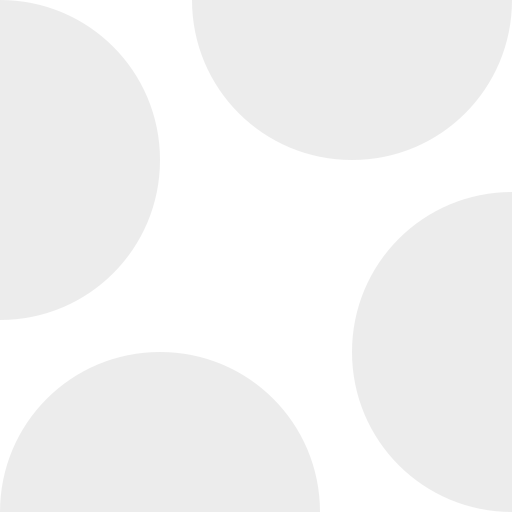
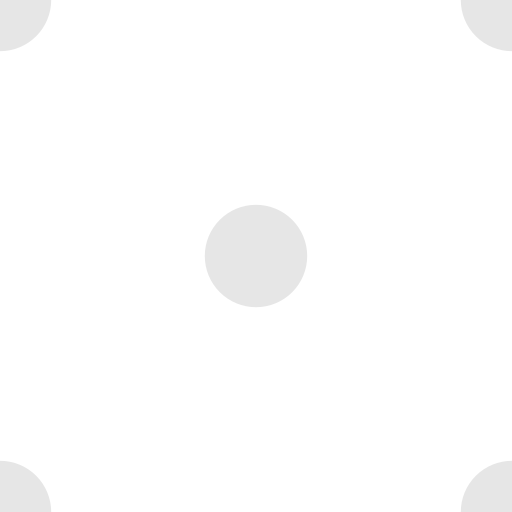
Fix background patterns

diff --git a/src/lib/components/Theme.svelte b/src/lib/components/Theme.svelte
@@ -11,7 +11,7 @@
 			--color-bg-warn: rgb(221, 57, 42);
 			--border0: 1px solid rgba(200, 200, 200, 0.4);
 			--radius0: 5px;
-			--color-darken: rgba(0, 0, 0, 0.2);
+			--color-darken: rgba(255, 255, 255, 0.7);
 		}
 
 		@media (prefers-color-scheme: dark) {
@@ -26,7 +26,7 @@
 				--color-bg-warn: rgb(200, 30, 20);
 				--border0: 1px solid rgba(100, 100, 100, 0.4);
 				--radius0: 5px;
-				--color-darken: rgba(0, 0, 0, 0.5);
+				--color-darken: rgba(17, 17, 17, 0.7);
 			}
 		}
 
